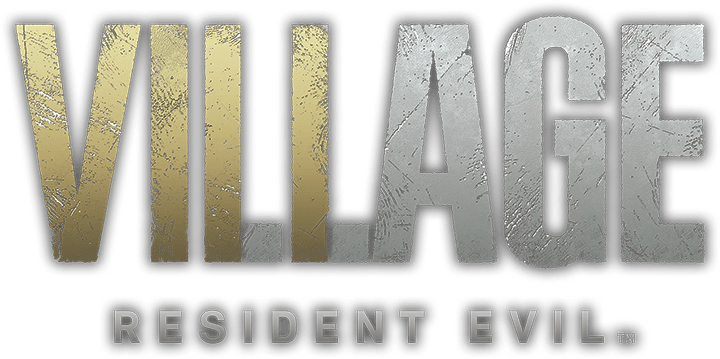
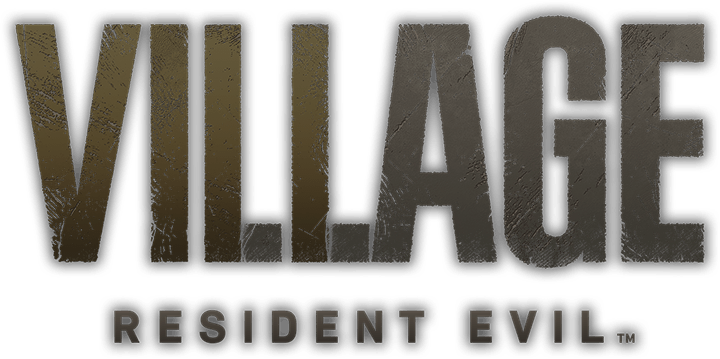
changement d'ambiance

diff --git a/css/style.css b/css/style.css
@@ -1,14 +1,11 @@
-html{
-    background-image: url(../img/background.png);
-    background-repeat: no-repeat;
-    background-attachment:center fixed;
-    background-size: cover;
-    margin:0px 0px 0px 0px;
-    backdrop-filter: brightness(60%);
-}
 body{
     text-align: center;
-  
+    background-image: url(../img/background.png);
+    background-repeat: no-repeat;
+    background-attachment:fixed;
+    background-size: cover;
+    -webkit-backdrop-filter: brightness(60%);
+    margin: auto;
 
 }
 .barredubas{
@@ -18,14 +15,14 @@ body{
     padding: 0.1rem 0rem 0rem 0rem;
     display: flex;
     bottom: 0rem;
-    
+
 }
 .logo_village img{
     width:20rem;
 }
 .logo_village{
-    padding: 30rem 0 30rem 0;
-    margin: auto;
+    padding: 30rem 0 5rem 0;
+    margin:0rem 0rem 0rem 0rem;
     align-items: center;
     animation-duration: 2s;
     animation-name:glissade;
@@ -33,34 +30,37 @@ body{
     
 }
 .boutonmenu{
+    display: flex;
+    justify-content: center;
     width: 10rem;
     height: 2rem;
     height: 3rem;
-    margin: auto 0rem 3rem 0rem;
-    border-radius:18px;
+    margin: 0rem 0rem 0rem 0rem;
+    border-radius:10px;
     animation-duration: 2s;
     animation-name:cascade;
     text-align: center;
+    border-top:1px solid #666783;
+    /*border-bottom:1px solid white ;*/
     
     
 }
 .fond{
-    background-color: rgba(0, 0, 0, 0.3);
-    backdrop-filter: blur(5px);
+    -webkit-background-fill-color:rgba(0, 0, 0, 0.3);
+    -webkit-backdrop-filter: blur(4px);
     width: 100%;
     height: fit-content;
 }
 .texte{
     text-align: center;
     color: white;
-    margin: 0rem;
-    padding: 0.7rem;
+    padding: 0rem 0rem 0rem 0rem;
 }
 
 .menu{
     width: 10rem;                       
-    border: white solid 1px;
-    margin:0rem 0rem 1rem 0rem;
+    border: #666783 solid 1px;
+    margin:0rem 0rem 0rem 0rem;
     border-radius:18px;
     position: fixed;
     top:0px
@@ -74,16 +74,16 @@ p{
     
 
 }
-.menu:hover{
+.menu:hover p{
     /*0margin:0rem 0rem 0rem 0rem;*/
-    background-color: black;
+    /*background-color: black;*/
 }
 
 
 .conteneurmenu{
     border-radius:18px;
     display:none;
-    margin: 0rem 0rem 17.8rem 0rem;
+    margin: 0rem 0rem 9rem 0rem;
     height:3.2rem;
     width:40rem;
     
@@ -126,5 +126,50 @@ p{
     }
   }
   .dropdown{
-      color:white;
+      color:#59544b;
+      margin: 0rem 0rem 0rem 0rem;
   }
+  
+  
+.triangle_gauche{
+    width  : 0;
+    height : 0;
+    border-top   : 25rem solid grey;
+    border-right : 25rem solid transparent;
+    -webkit-backdrop-filter: brightness(60%);
+      }
+.gros_rectangle{
+    margin: auto;
+    width: 65rem;
+    height:25rem;
+    background-color:black;
+    background-size: contain;
+    overflow: auto;
+    display: flex;
+    justify-content: space-between;    
+    margin-bottom: 5rem;
+    }
+.gros_rectangle > p{
+    margin: auto;
+    display: flex;
+    justify-content: right;
+    position:absolute;
+    margin-bottom: 5rem;
+}
+.logo_anniv {
+    display: flex;
+    justify-content:right;
+    position:absolute;
+    margin-top: 15rem;
+    margin-left:5rem;
+}
+.triangle_droit{
+    width  : 0;
+    height : 0;
+    border-top  : 25rem solid grey;
+    border-left : 25rem solid transparent;
+  }
+  @keyframes defilement1{
+    0%{transform: translate(0,0);}
+    100%{transform: translate(-2880px,0);}
+}

diff --git a/index.html b/index.html
@@ -21,7 +21,7 @@
                                 <p class="texte">Contact</p>
                             </div>
                             <div class="boutonmenu">
-                                <p class="texte"></p>
+                                <p class="texte">oui</p>
                             </div>
                             <div class="boutonmenu">
                                 <p class="texte">L'Histoire</p>
@@ -33,11 +33,23 @@
                         <img src="img/village.png" alt="Resident Evil Vilage logo">
                         <i class="fas fa-angle-double-down fa-3x dropdown"></i>
                     </div>
+                    <div class="gros_rectangle">
+                        <p>plongez dans l'univers angoissant de RE8</p>
+                    
+                        <div class="triangle_gauche">
+                            </div>
+                        <div class="triangle_droit"> 
+                            </div>
+                    </div>
+                    <div class="logo_anniv">
+                        <img src="img/anniv.png" alt="25 ans de Resident Evil">
+                    </div>
                     <div class="barredubas">
                         <i class="fab fa-instagram fa-3x premiericone"></i>
                         <i class="fab fa-youtube-square fa-3x icone"></i>
                         <i class="fab fa-twitter fa-3x icone"></i>
                     </div>
                 </div>
+            </div>
             </body>
     </html>
